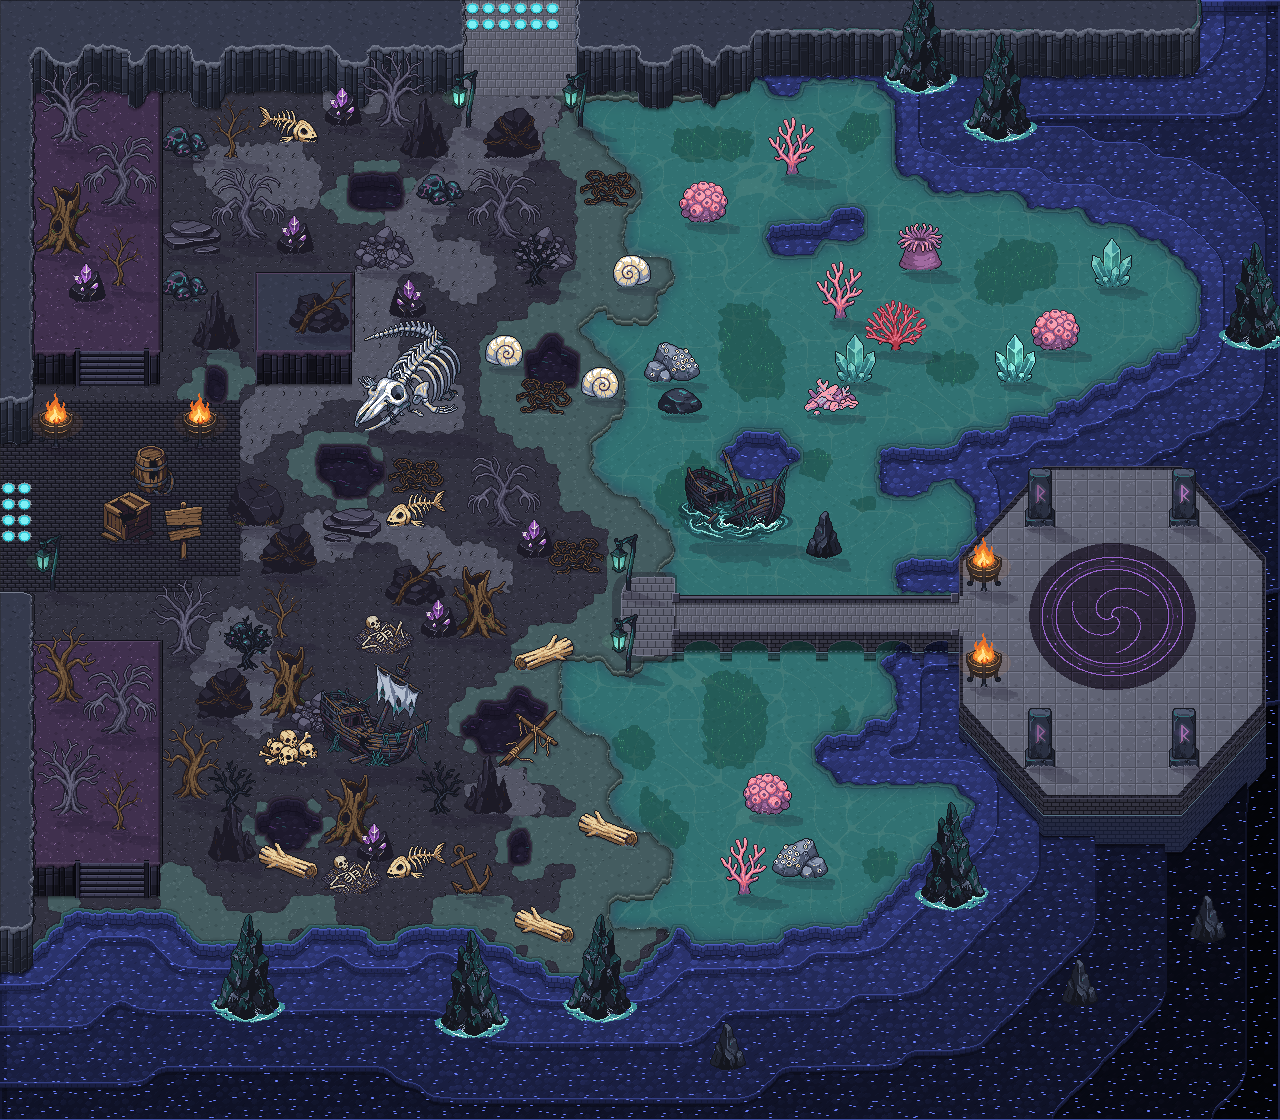
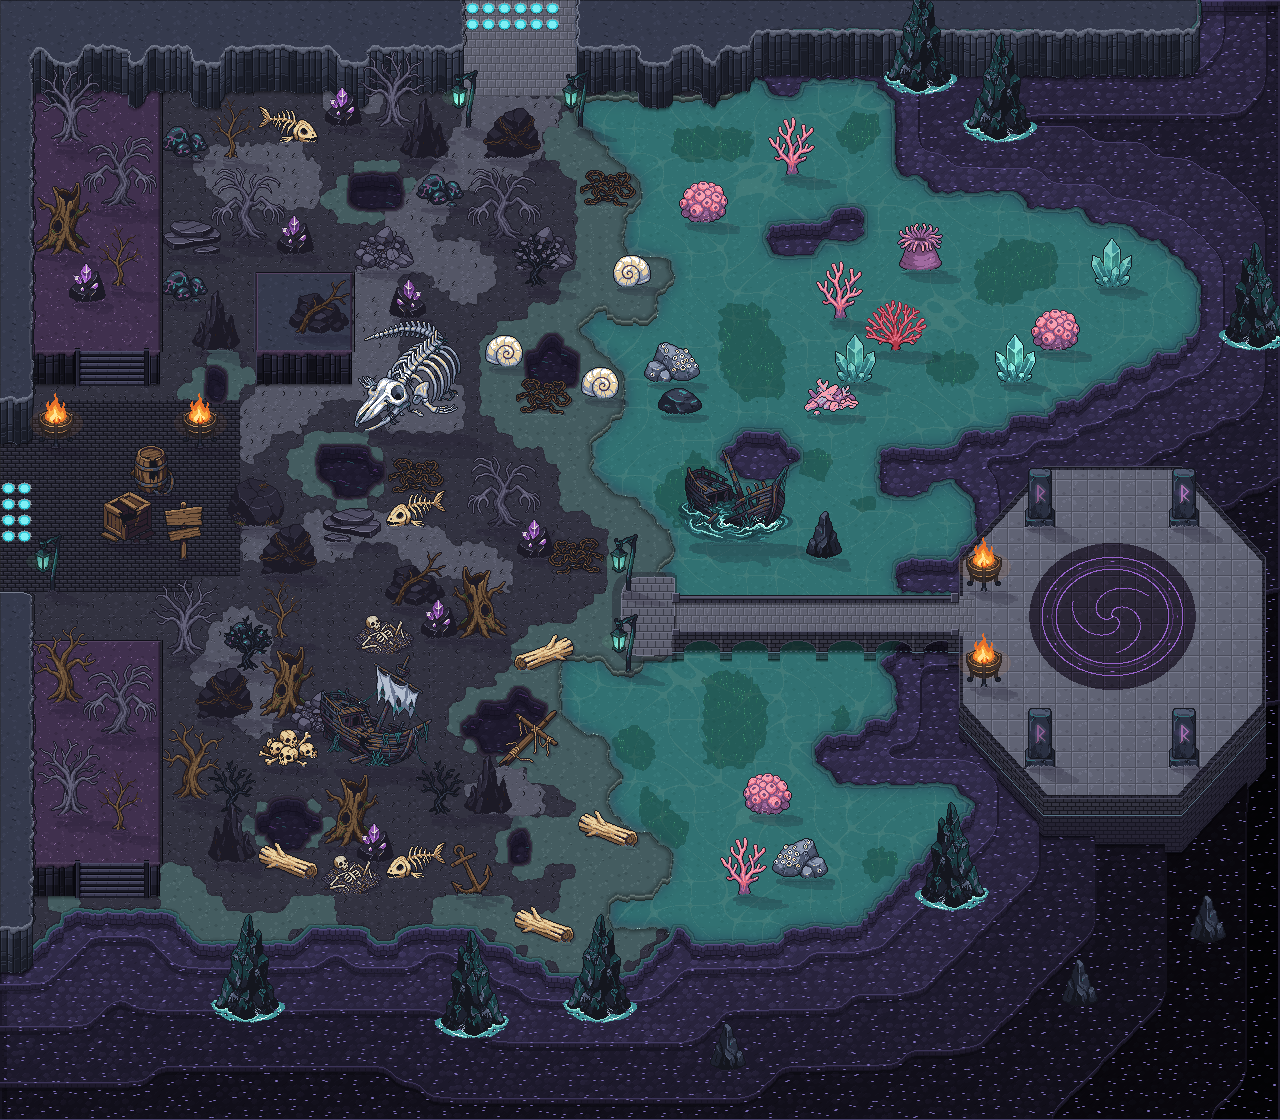
Karte 11: Tiefsee im oeligen Schwarz-Violett der Tuempel
Claude-Session: https://claude.ai/code/session_01SaoYHKhnro4LFcPJqjaPsq

diff --git a/tools/karte11_bauen.py b/tools/karte11_bauen.py
@@ -247,7 +247,7 @@ def kaimauer(a, m, tiefe=24, ebene=None):
                 c = np.array((90, 120, 140), np.float32)         # Wasserlinie
             elif d > UEBER:
                 tief_ = (d - UEBER) / max(1, gesamt - UEBER)
-                c = c * (0.62 - 0.22 * tief_) + np.array((24, 34, 70), np.float32) * (0.38 + 0.22 * tief_)
+                c = c * (0.62 - 0.22 * tief_) + np.array((26, 22, 40), np.float32) * (0.38 + 0.22 * tief_)
             if d == gesamt - 1:
                 c = np.array((12, 12, 22), np.float32)           # Fuss auf dem Grund
             a[Y, x] = np.clip(c, 0, 255).astype(np.uint8)
@@ -517,10 +517,10 @@ def bauen(frame=None, speichern=True):
     a = np.array(_wv.vertiefen(Image.fromarray(a), np.ones_like(tief), frame, maske=tief,
                                rand=('#1c3a40', '#24484e', '#2e565c', '#386468'),
                                stufen=[(22, 0.84, 7), (64, 0.72, 6), (120, 0.62, 6), (190, 0.53, 5), (270, 0.45, 5)]).convert('RGB'))
-    # dunkel wie das uebrige Wasser der Karte (Nachtblau der Vorlage): Helligkeit bleibt als Struktur, Farbe nachtblau
+    # dunkel wie die schwarzen Tuempel der Karte: Helligkeit bleibt als Struktur, Farbe oeliges Schwarz-Violett
     lum_t = a[tief].astype(np.float32) @ np.array([0.3, 0.59, 0.11], np.float32)
     lum_t = lum_t / max(1.0, float(lum_t.mean()))
-    a[tief] = np.clip(lum_t[:, None] * np.array([30, 36, 76], np.float32), 0, 255).astype(np.uint8)
+    a[tief] = np.clip(lum_t[:, None] * np.array([34, 30, 51], np.float32), 0, 255).astype(np.uint8)   # oeliges Schwarz-Violett wie die Tuempel
     tm = weich(zell_maske(cls, 'x', cols, rows), 5, 0.2, 47, 0.45) & ~em[2]
     tm = k4.splitter_weg(tm, 60)
     k4.wasser_zeichnen(a, tm, frame, np.zeros_like(tm))
